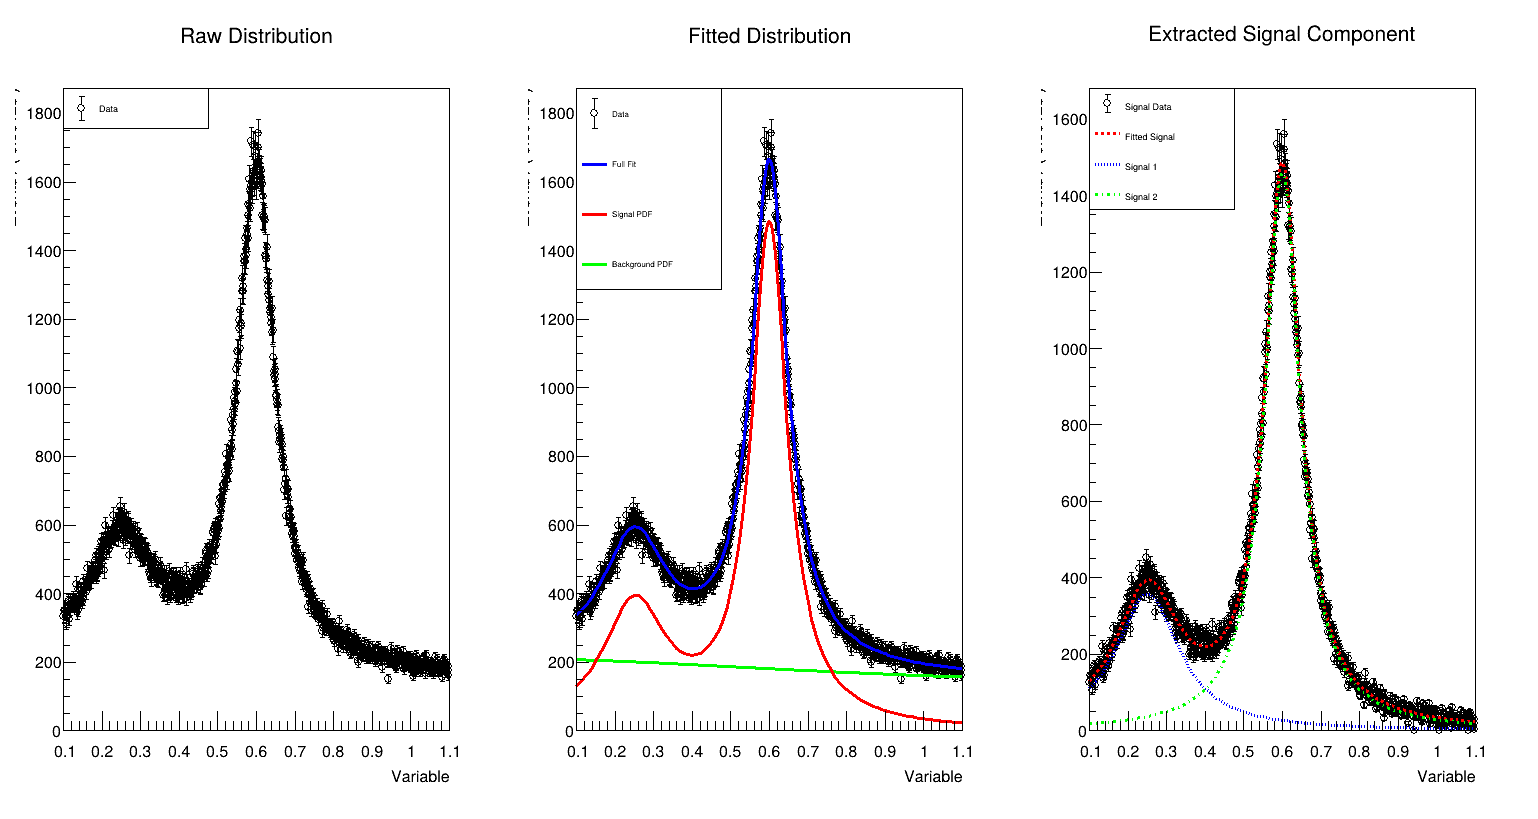
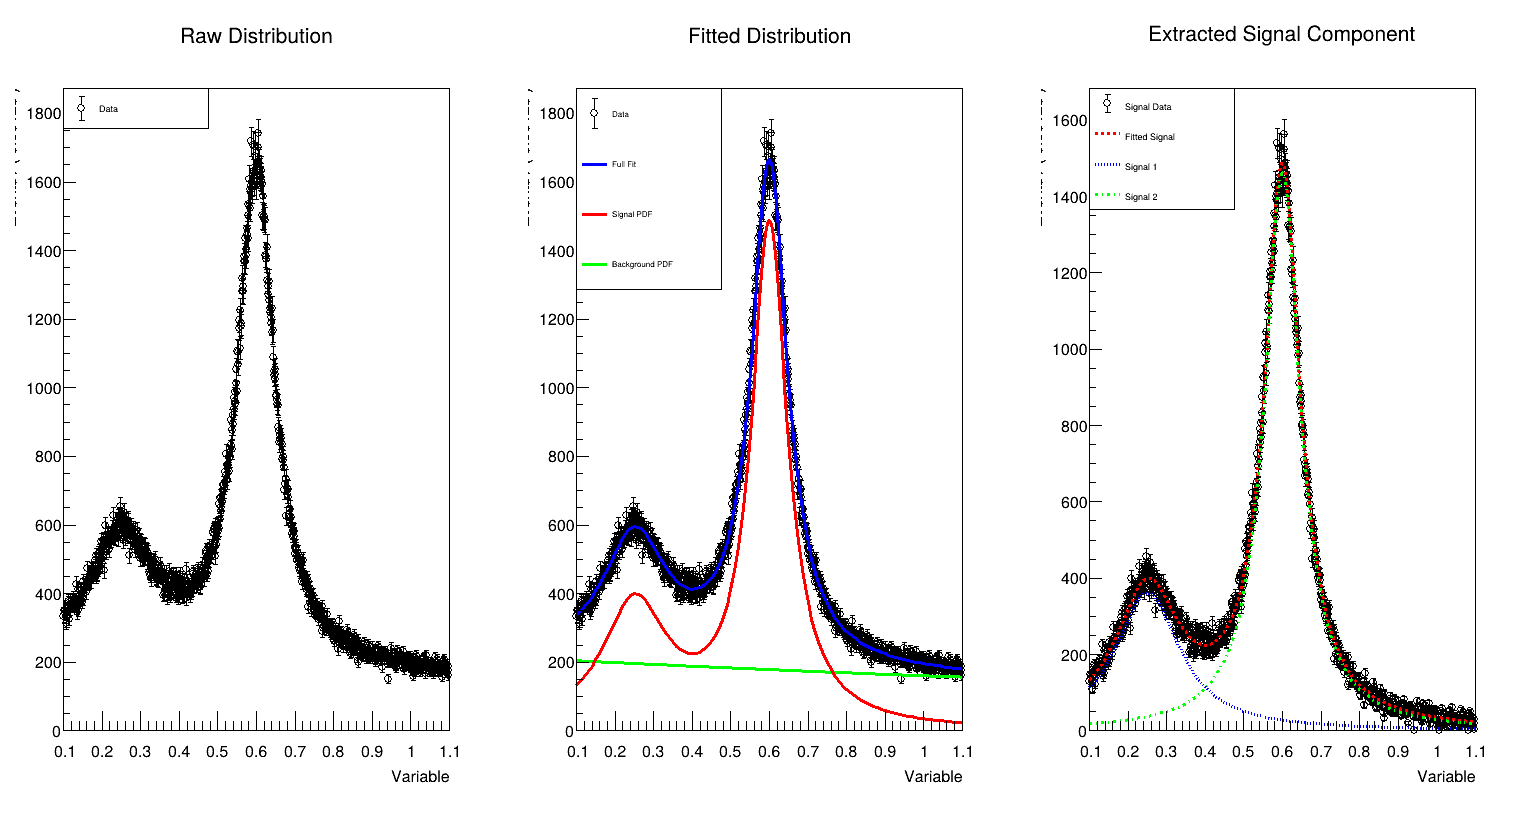
Made a Macro to fit the 4th var but some prob? and also made changes to all the complex coed to output the fit parameters to see how good it is

diff --git a/C_files/Complexdata4.C b/C_files/Complexdata4.C
@@ -18,30 +18,35 @@
     #include "RooArgSet.h"
     #include "RooGlobalFunc.h"
     #include "RooChebychev.h"
+    #include "RooGaussian.h"
+    #include "RooGenericPdf.h"
+    #include "RooFitResult.h"
+    #include "TPad.h"
+    #include "TLatex.h"
     #include <fstream>
 
     using namespace RooFit;
 
-void Complexdata1(){
+void Complexdata4(){
 
     //OPEN ROOT FILE
 
-    gSystem->RedirectOutput("../logs/Complexdata1.log", "w");
+    gSystem->RedirectOutput("../logs/Complexdata4.log", "w");
 
     TFile *f = new TFile("../Root_files/ComplexData.root", "READ");
     TTree *t = (TTree*)f->Get("data");
 
     //CREATE HISTOGRAMS
 
-    TH1F *h1 = new TH1F("h1", "Generated Distribution; Var; Counts", 800, 5240.0, 5290.0);
-    t->Draw("var1 >>h1", "weight1", "goff");
+    TH1F *h1 = new TH1F("h1", "Generated Distribution; Var; Counts", 700, -10.0, 10.0);
+    t->Draw("var4 >>h1", "weight4", "goff");
     h1->SetDirectory(0);
     f->Close();
     delete f;
 
     // ROOFIT VARIABLE
 
-    RooRealVar var("var1", "Variable", 5240.0, 5290.0);
+    RooRealVar var("var4", "Variable", -10.0, 10.0);
 
     // IMPORT DATA
 
@@ -49,18 +54,32 @@ void Complexdata1(){
 
     //SIGNAL PARAMETERS
 
-    RooRealVar mean("mean", "Mean", 5277.0, 5273.0, 5280.0);
-    RooRealVar sigma("sigma", "Sigma", 0.7, 0.1, 7.0);
+    RooRealVar mean1("mean1", "Mean1", 0.0, -2.0, 2.0);
+    RooRealVar sigma1("sigma1", "Sigma1", 1.0, 0.1, 5.0);
+    RooRealVar sigma2("sigma2", "Sigma2", 2.75, 0.1, 10.0);
+    RooRealVar frac("frac", "Fraction of Signal 1", 0.5, 0.0, 1.0);
+    sigma2.setVal(2.5);
+    sigma2.setConstant(true);
+    
 
     // BACKGROUND PARAMETERS
 
-    RooRealVar var0("var0", "var0", 5289.0, 5285.0, 5295.0);    
-    RooRealVar c("c", "c", -50.0, -200.0, 0.0);
+    RooRealVar tau("tau", "Tau", 1.0, 0.1, 10.0);
+    RooRealVar meanbkg("meanbkg", "Meanbkg", 1.0, -2.0, 2.0);
+    RooRealVar sigmabkg("sigmabkg", "SigmaBkg", 1.0, 0.1, 5.0);
+    RooRealVar fracbkg("fracbkg", "Fraction of Background 1", 0.5, 0.0, 1.0);
+
 
     // SIGNAL AND BACKGROUND PDFS
 
-    RooGaussian signal("signal", "Signal", var, mean, sigma);
-    RooArgusBG background("background", "Background", var, var0, c);
+    RooGaussian signal1("signal1", "Signal PDF", var, mean1, sigma1);
+    RooGaussian signal2("signal2", "Signal PDF 2", var, mean1, sigma2);
+    RooAddPdf signal("signal", "Combined Signal PDF", RooArgList(signal1, signal2),frac);
+    RooGenericPdf background1("background1", "exp(-TMath::Abs(var4)/tau)", RooArgList(var, tau));
+    RooGaussian background2("background2", "Gaussian Background", var, meanbkg, sigmabkg);
+    RooAddPdf background("background", "Combined Background PDF", RooArgList(background1, background2), fracbkg);
+
+
 
     // YEILD VARIABLES
 
@@ -73,7 +92,7 @@ void Complexdata1(){
 
     //FIT MODEL TO DATA
 
-    RooFitResult* fitres = model.fitTo(data, Save(), SumW2Error(kTRUE));
+    RooFitResult* fitres = model.fitTo(data,Save(),SumW2Error(kTRUE));
 
     //CANVAS CREATION
 
@@ -102,6 +121,9 @@ void Complexdata1(){
     model.plotOn(frame2, Name("fullfit"));
     model.plotOn(frame2, Components(background), LineColor(kGreen), Name("bkg"));
     model.plotOn(frame2, Components(signal), LineColor(kRed), Name("sig"));
+    model.plotOn(frame2, Components(background1), LineColor(kBlack), LineStyle(kDashed), Name("bkg1"));
+    model.plotOn(frame2, Components(background2), LineColor(kMagenta), LineStyle(kDotted), Name("bkg2"));
+
     double chi2ndf = frame2->chiSquare("fullfit", "data2", 10);
     frame2->SetTitle("Fitted Distribution");
     frame2->Draw();
@@ -111,6 +133,8 @@ void Complexdata1(){
     leg2->AddEntry(frame2->findObject("fullfit"), "Full Fit","l");
     leg2->AddEntry(frame2->findObject("sig"), "Signal PDF", "l");
     leg2->AddEntry(frame2->findObject("bkg"), "Background PDF", "l");
+    leg2->AddEntry(frame2->findObject("bkg1"), "Exp Background", "l");
+    leg2->AddEntry(frame2->findObject("bkg2"), "Gaussian Background", "l");
     leg2->Draw();
 
     // EXTRACTED SIGNAL COMPONENT
@@ -136,23 +160,25 @@ void Complexdata1(){
     RooPlot *frame3 = var.frame();
     signalData.plotOn(frame3, Name("sigdata"));
     signal.plotOn(frame3, Name("sigpdf"), LineColor(kRed), LineStyle(kDashed), Normalization(hsig->Integral(),RooAbsReal::NumEvent));
+    //signal.plotOn(frame3, Name("sig"), LineColor(kBlue), LineStyle(kDotted), Normalization(nsig.getVal(),RooAbsReal::NumEvent));
     frame3->SetTitle("Extracted Signal Component");
     frame3->Draw();
 
     TLegend *leg3 = new TLegend(0.1, 0.75, 0.4, 0.9);
     leg3->AddEntry(frame3->findObject("sigdata"), "Signal Data", "ep");
     leg3->AddEntry(frame3->findObject("sigpdf"), "Fitted Signal", "l");
+    //leg3->AddEntry(frame3->findObject("sig"), "Signal", "l");
     leg3->Draw();
 
     cmain->Modified();
     cmain->Update();
     gPad->Update();
 
-    cmain->SaveAs("../Png_files/ComplexData1.png");
+    cmain->SaveAs("../Png_files/ComplexData4.png");
 
-    ofstream out("../Txt_files/ComplexData1_results.txt");
+    ofstream out("../Txt_files/ComplexData4_results.txt");
 
-    out << "Fit Results:\n" << endl;
+    out << "Fit Results:\n";
 
     out << "Status: " << fitres->status() << endl;
     out << "CovQual: " << fitres->covQual() << endl;
@@ -163,9 +189,11 @@ void Complexdata1(){
     fitres->Print("v");
 
     out << "\nSignal Yield: "<< nsig.getVal()<< " ± "<< nsig.getError()<< endl;
-    out << "Mean: "<< mean.getVal()<< " ± "<< mean.getError()<< endl;
-    out << "Sigma: "<< sigma.getVal()<< " ± "<< sigma.getError()<< endl;
     out << "Background Yield: "<< nbkg.getVal()<< " ± "<< nbkg.getError()<< endl;
+    out << "\nSignal Mean: "<< mean1.getVal()<< " ± "<< mean1.getError()<< endl;
+    out << "Sigma1: "<< sigma1.getVal()<< " ± "<< sigma1.getError()<< endl;
+    out << "Sigma2: "<< sigma2.getVal()<< " ± "<< sigma2.getError()<< endl;
+    out << "Signal Fraction: "<< frac.getVal()<< " ± "<< frac.getError()<< endl;
 
     out.close();
 

diff --git a/C_files/Complexdata3.C b/C_files/Complexdata3.C
@@ -50,13 +50,13 @@ void Complexdata3(){
     //SIGNAL PARAMETERS
 
     RooRealVar mean1("mean1", "Mean1", 3100.0, 3060.0, 3140.0);
-    RooRealVar width1("width1", "Width1", 40.0, 0.1, 60.0);
+    //RooRealVar width1("width1", "Width1", 40.0, 0.1, 60.0);
     RooRealVar sigma1("sigma1", "Sigma1", 0.5, 0.1, 100.0);
     RooRealVar mean2("mean2", "Mean2", 3690.0, 3650.0, 3730.0);
-    RooRealVar width2("width2", "Width2", 20.0, 0.1, 50.0);
+    //RooRealVar width2("width2", "Width2", 20.0, 0.1, 50.0);
     RooRealVar sigma2("sigma2", "Sigma2", 0.5, 0.1, 100.0);
     RooRealVar mean3("mean3", "Mean3", 3870.0, 3830.0, 3910.0);
-    RooRealVar width3("width3", "Width3", 15.0, 0.1, 40.0);
+    //RooRealVar width3("width3", "Width3", 15.0, 0.1, 40.0);
     RooRealVar sigma3("sigma3", "Sigma3", 0.5, 0.1, 100.0);
 
     // BACKGROUND PARAMETERS
@@ -68,9 +68,9 @@ void Complexdata3(){
 
     // SIGNAL AND BACKGROUND PDFS
 
-    RooVoigtian signal1("signal1", "Signal 1", var, mean1, width1, sigma1);
-    RooVoigtian signal2("signal2", "Signal 2", var, mean2, width2, sigma2);
-    RooVoigtian signal3("signal3", "Signal 3", var, mean3, width3, sigma3);
+    RooGaussian signal1("signal1", "Signal 1", var, mean1, sigma1);
+    RooGaussian signal2("signal2", "Signal 2", var, mean2, sigma2);
+    RooGaussian signal3("signal3", "Signal 3", var, mean3, sigma3);
     //RooChebychev background("background", "Background", var, RooArgList(c0, c1));
     RooBernstein background("background", "Background", var, RooArgList(a1, a2));
 
@@ -87,7 +87,7 @@ void Complexdata3(){
 
     //FIT MODEL TO DATA
 
-    model.fitTo(data, SumW2Error(kTRUE));
+    RooFitResult* fitres = model.fitTo(data, Save(), SumW2Error(kTRUE));
 
     //CANVAS CREATION
 
@@ -116,10 +116,11 @@ void Complexdata3(){
     model.plotOn(frame2, Name("fullfit"));
     model.plotOn(frame2, Components(background), LineColor(kGreen), Name("bkg"));
     model.plotOn(frame2, Components(RooArgList(signal1, signal2, signal3)), LineColor(kRed), Name("sig"));
+    double chi2ndf = frame2->chiSquare("fullfit", "data2", 12);
     frame2->SetTitle("Fitted Distribution");
     frame2->Draw();
 
-    TLegend *leg2 = new TLegend(0.1, 0.65, 0.4, 0.9);
+    TLegend *leg2 = new TLegend(0.3, 0.65, 0.6, 0.9);
     leg2->AddEntry(frame2->findObject("data2"), "Data", "ep");
     leg2->AddEntry(frame2->findObject("fullfit"), "Full Fit","l");
     leg2->AddEntry(frame2->findObject("sig"), "Signal PDF", "l");
@@ -155,7 +156,7 @@ void Complexdata3(){
     frame3->SetTitle("Extracted Signal Component");
     frame3->Draw();
 
-    TLegend *leg3 = new TLegend(0.1, 0.75, 0.4, 0.9);
+    TLegend *leg3 = new TLegend(0.3, 0.75, 0.6, 0.9);
     leg3->AddEntry(frame3->findObject("sigdata"), "Signal Data", "ep");
     //leg3->AddEntry(frame3->findObject("sigpdf"), "Fitted Signal", "l");
     leg3->AddEntry(frame3->findObject("sig1"), "Signal 1", "l");
@@ -171,16 +172,22 @@ void Complexdata3(){
 
     ofstream out("../Txt_files/ComplexData3_results.txt");
 
-    out << "Fit Results:" << endl;
-    out << "Signal 1 Yield: " << nsig1.getVal() << " ± " << nsig1.getError() << endl;
+    out << "Fit Results:\n" << endl;
+
+    out << "Status: " << fitres->status() << endl;
+    out << "CovQual: " << fitres->covQual() << endl;
+    out << "EDM: " << fitres->edm() << endl;
+    out << "MinNLL: " << fitres->minNll() << endl;
+    out << "Chi2/NDF: " << chi2ndf << endl;
+
+    fitres->Print("v");
+
+    out << "\nSignal 1 Yield: " << nsig1.getVal() << " ± " << nsig1.getError() << endl;
     out << "Signal 2 Yield: " << nsig2.getVal() << " ± " << nsig2.getError() << endl;
     out << "Signal 3 Yield: " << nsig3.getVal() << " ± " << nsig3.getError() << endl;
     out << "Mean1: " << mean1.getVal() << " ± " << mean1.getError() << endl;
     out << "Mean2: " << mean2.getVal() << " ± " << mean2.getError() << endl;
     out << "Mean3: " << mean3.getVal() << " ± " << mean3.getError() << endl;
-    out << "Width1: " << width1.getVal() << " ± " << width1.getError() << endl;
-    out << "Width2: " << width2.getVal() << " ± " << width2.getError() << endl;
-    out << "Width3: " << width3.getVal() << " ± " << width3.getError() << endl;
     out << "Sigma1: " << sigma1.getVal() << " ± " << sigma1.getError() << endl;
     out << "Sigma2: " << sigma2.getVal() << " ± " << sigma2.getError() << endl;
     out << "Sigma3: " << sigma3.getVal() << " ± " << sigma3.getError() << endl;

diff --git a/C_files/Complexdata2.C b/C_files/Complexdata2.C
@@ -61,12 +61,17 @@ void Complexdata2(){
     RooRealVar c1("c1", "c1", -0.5, -1.0, 1.0);
     RooRealVar c2("c2", "c2", 0.1, -1.0, 1.0);
 
+    RooRealVar a1("a1", "a1", 0.5, 0.0, 10.0);
+    RooRealVar a2("a2", "a2", 0.0, 0.0, 10.0);
+    RooRealVar a3("a3", "a3", 0.0, 0.0, 10.0);
+
     // SIGNAL AND BACKGROUND PDFS
 
     RooBreitWigner signal1("signal1", "Signal 1", var, mean1, width1);
     RooBreitWigner signal2("signal2", "Signal 2", var, mean2, width2);
     RooAddPdf signal("signal", "Combined Signal", RooArgList(signal1, signal2), frac);
-    RooChebychev background("background", "Background", var, RooArgList(c0, c1, c2));
+    //RooChebychev background("background", "Background", var, RooArgList(c0, c1, c2));
+    RooBernstein background("background", "Background", var, RooArgList(a1, a2, a3));
 
     // YEILD VARIABLES
 
@@ -79,7 +84,7 @@ void Complexdata2(){
 
     //FIT MODEL TO DATA
 
-    model.fitTo(data, SumW2Error(kTRUE));
+    RooFitResult* fitres = model.fitTo(data, Save(), SumW2Error(kTRUE));
 
     //CANVAS CREATION
 
@@ -108,6 +113,7 @@ void Complexdata2(){
     model.plotOn(frame2, Name("fullfit"));
     model.plotOn(frame2, Components(background), LineColor(kGreen), Name("bkg"));
     model.plotOn(frame2, Components(signal), LineColor(kRed), Name("sig"));
+    double chi2ndf = frame2->chiSquare("fullfit", "data2", 10);
     frame2->SetTitle("Fitted Distribution");
     frame2->Draw();
 
@@ -161,12 +167,21 @@ void Complexdata2(){
 
     ofstream out("../Txt_files/ComplexData2_results.txt");
 
-    out << "Fit Results:" << endl;
-    out << "Signal Yield: " << nsig.getVal() << " ± " << nsig.getError() << endl;
-    out << "Mean1: " << mean1.getVal() << " ± " << mean1.getError() << endl;
-    out << "Mean2: " << mean2.getVal() << " ± " << mean2.getError() << endl;
-    out << "Width1: " << width1.getVal() << " ± " << width1.getError() << endl;
-    out << "Width2: " << width2.getVal() << " ± " << width2.getError() << endl;
+    out << "Fit Results:\n" << endl;
+
+    out << "Status: " << fitres->status() << endl;
+    out << "CovQual: " << fitres->covQual() << endl;
+    out << "EDM: " << fitres->edm() << endl;
+    out << "MinNLL: " << fitres->minNll() << endl;
+    out << "Chi2/NDF: " << chi2ndf << endl;
+
+    fitres->Print("v");
+
+    out << "\nSignal Yield: "<< nsig.getVal()<< " ± "<< nsig.getError()<< endl;
+    out << "Mean1: "<< mean1.getVal()<< " ± "<< mean1.getError()<< endl;
+    out << "Mean2: "<< mean2.getVal()<< " ± "<< mean2.getError()<< endl;
+    out << "Width1: "<< width1.getVal()<< " ± "<< width1.getError()<< endl;
+    out << "Width2: "<< width2.getVal()<< " ± "<< width2.getError()<< endl;
     out << "Fraction: " << frac.getVal() << " ± " << frac.getError() << endl;
     out << "Background Yield: " << nbkg.getVal() << " ± " << nbkg.getError() << endl;
 
